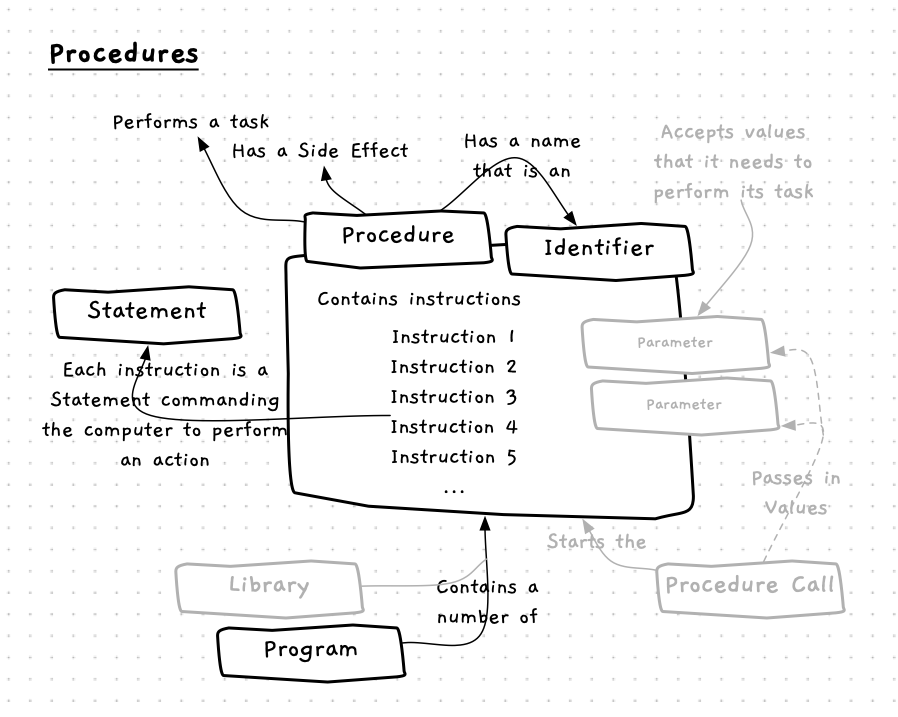
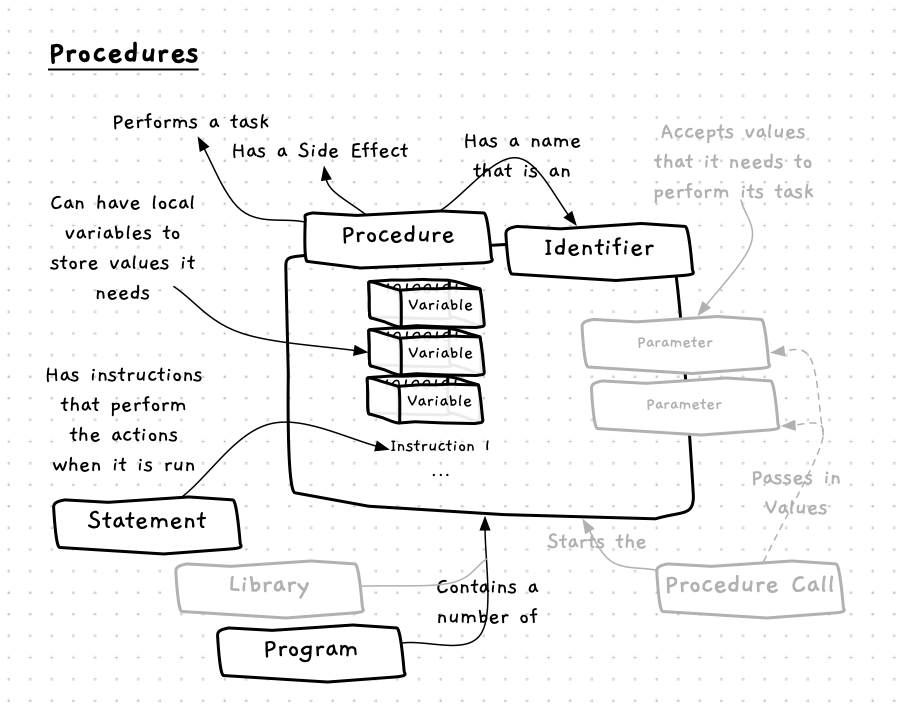
Fix images and add videos up to indirect access

diff --git a/src/content/docs/book/part-2-organised-code/2-organising-code/1-concepts/03-local-variable.md b/src/content/docs/book/part-2-organised-code/2-organising-code/1-concepts/03-local-variable.md
@@ -39,6 +39,7 @@ The following code creates a local variable called `name`. This variable is decl
 
 void say_hello()
 {
+    string name;
     name = read_line();
     write_line("Hello " + name);
 }
